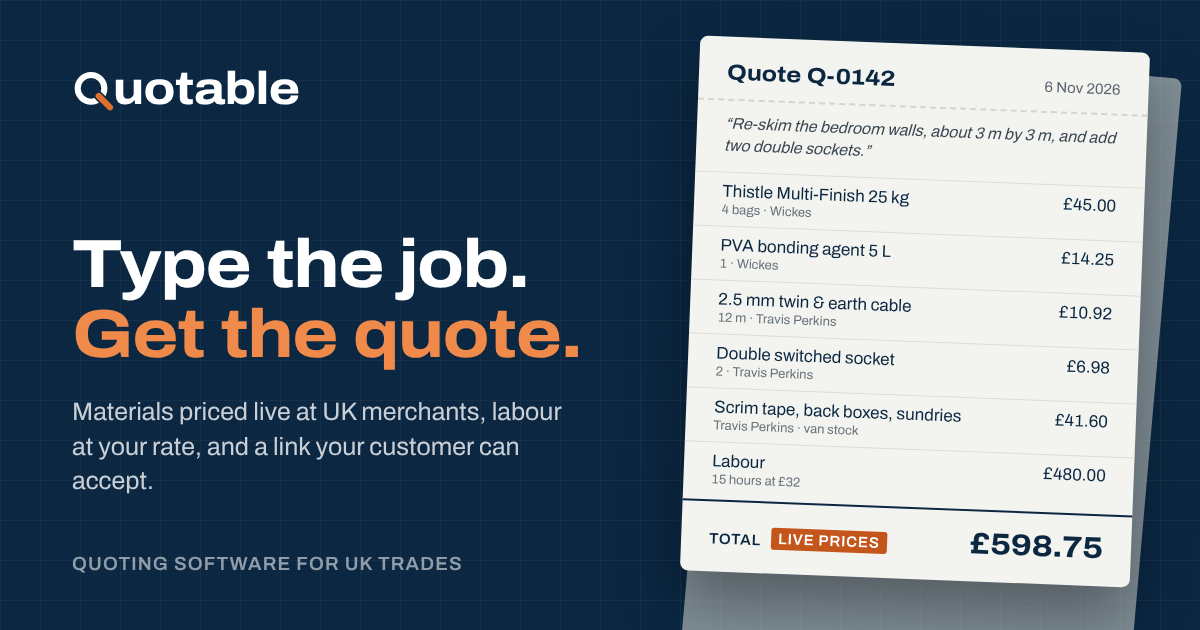
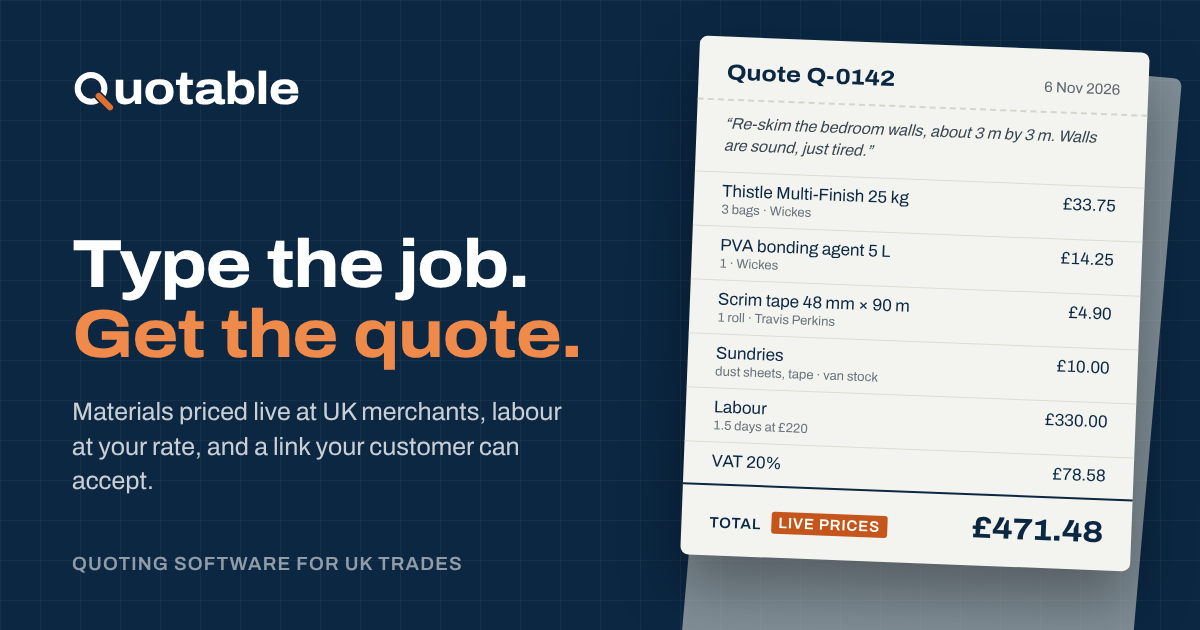
Mobile polish: bigger footer tap targets, tighter hero; share image matches the new example; UK wording in sample data

diff --git a/src/data/demoData.ts b/src/data/demoData.ts
@@ -58,7 +58,7 @@ export const UK_LOCATIONS = [
 export const demoQuotes: Quote[] = [
   {
     id: "Q-001",
-    title: "Kitchen Renovation - Oak Cabinets",
+    title: "Kitchen Refit - Oak Units",
     date: "2025-01-15",
     created_at: "2025-01-15T09:30:00Z",
     client: "Ashworth Construction Ltd",
@@ -73,7 +73,7 @@ export const demoQuotes: Quote[] = [
   },
   {
     id: "Q-002",
-    title: "Bathroom Remodel - Modern Suite",
+    title: "Bathroom Refit - Modern Suite",
     date: "2025-01-12",
     created_at: "2025-01-12T14:20:00Z",
     client: "Hollins & Webb Builders",
@@ -198,7 +198,7 @@ export const demoInvoices: Invoice[] = [
     id: "INV-001",
     quoteId: "Q-001",
     client: "Ashworth Construction Ltd",
-    title: "Kitchen Renovation - Oak Cabinets",
+    title: "Kitchen Refit - Oak Units",
     summary: "Payment for completed kitchen renovation including oak cabinets, countertops, and modern fixtures as per agreed quote.",
     date: "2025-01-18",
     dueDate: "2025-02-17",
@@ -211,7 +211,7 @@ export const demoInvoices: Invoice[] = [
     id: "INV-002",
     quoteId: "Q-002",
     client: "Hollins & Webb Builders",
-    title: "Bathroom Remodel - Modern Suite",
+    title: "Bathroom Refit - Modern Suite",
     summary: "Invoice for bathroom refit with contemporary suite, walk-in shower, and designer tiles installation.",
     date: "2025-01-15",
     dueDate: "2025-02-14",

diff --git a/src/components/Footer.tsx b/src/components/Footer.tsx
@@ -10,7 +10,7 @@ export const Footer = ({ compact = false }: { compact?: boolean }) => {
     COMPANY.vatNumber && `VAT ${COMPANY.vatNumber}`,
   ].filter(Boolean).join(". ");
 
-  const linkClass = "text-muted-foreground hover:text-primary transition-colors";
+  const linkClass = "inline-flex items-center min-h-[2.75rem] sm:min-h-0 text-muted-foreground hover:text-primary transition-colors";
 
   // Inside the app: one quiet line, no marketing
   if (compact) {
@@ -32,7 +32,7 @@ export const Footer = ({ compact = false }: { compact?: boolean }) => {
           <p className="mt-3 text-sm text-muted-foreground max-w-xs">Quotes, jobs and invoices for UK tradespeople.</p>
         </div>
 
-        <nav aria-label="Footer" className="grid grid-cols-2 sm:flex sm:gap-8 gap-3 text-sm">
+        <nav aria-label="Footer" className="grid grid-cols-2 sm:flex sm:gap-8 gap-x-6 gap-y-0 text-sm">
           <Link to="/trades" className={linkClass}>Trades</Link>
           <Link to="/guides" className={linkClass}>Pricing guides</Link>
           <Link to="/quote-templates" className={linkClass}>Quote templates</Link>

diff --git a/src/components/landing/HeroDemo.tsx b/src/components/landing/HeroDemo.tsx
@@ -18,7 +18,7 @@ const LINES = [
   { item: "Thistle Multi-Finish 25 kg", qty: "3 bags", supplier: "Wickes", price: 33.75 },
   { item: "PVA bonding agent 5 L", qty: "1", supplier: "Wickes", price: 14.25 },
   { item: "Scrim tape 48 mm × 90 m", qty: "1 roll", supplier: "Travis Perkins", price: 4.9 },
-  { item: "Sundries", qty: "dust sheets, tape, cleaning", supplier: "van stock", price: 10.0 },
+  { item: "Sundries", qty: "dust sheets, tape", supplier: "van stock", price: 10.0 },
 ];
 const LABOUR = { days: 1.5, rate: 220 };
 
@@ -169,7 +169,7 @@ export const HeroDemo = () => {
               </ol>
             )}
             {stage === "accepted" && (
-              <p className="hero-line mt-2.5 text-[0.72rem] text-muted-foreground">Accepted by Mrs K. Whitworth · deposit link sent</p>
+              <p className="hero-line mt-2.5 text-[0.72rem] text-muted-foreground">Accepted by Mrs K. Whitworth</p>
             )}
           </div>
         </div>

diff --git a/index.html b/index.html
@@ -31,7 +31,7 @@
     <meta property="og:image" content="%VITE_SITE_URL%/og-image.png" />
     <meta property="og:image:width" content="1200" />
     <meta property="og:image:height" content="630" />
-    <meta property="og:image:alt" content="Quotable: type the job, get the quote. An example quote with live UK merchant prices totalling £598.75." />
+    <meta property="og:image:alt" content="Quotable: type the job, get the quote. An example quote with live UK merchant prices totalling £471.48." />
     <meta property="og:site_name" content="Quotable" />
     <meta name="twitter:card" content="summary_large_image" />
     <meta name="twitter:title" content="Quotable: quoting software for UK tradespeople, with live material prices" />

diff --git a/src/components/landing/Landing.tsx b/src/components/landing/Landing.tsx
@@ -74,7 +74,7 @@ const LandingBody = ({ handleSubscribe, subLoading }: { handleSubscribe: (plan: 
   return (
       <main>
         {/* ── Hero: the job typed in, the quote that comes out ───────────── */}
-        <section className="px-4 pt-28 sm:pt-36 pb-20 sm:pb-28">
+        <section className="px-4 pt-24 sm:pt-36 pb-16 sm:pb-28">
           <div className="container mx-auto grid lg:grid-cols-[1.05fr_1fr] gap-14 lg:gap-16 items-center">
             <div className="max-w-xl">
               <h1 className="text-[clamp(2.4rem,5vw,4.4rem)] leading-[1.02] text-primary">
